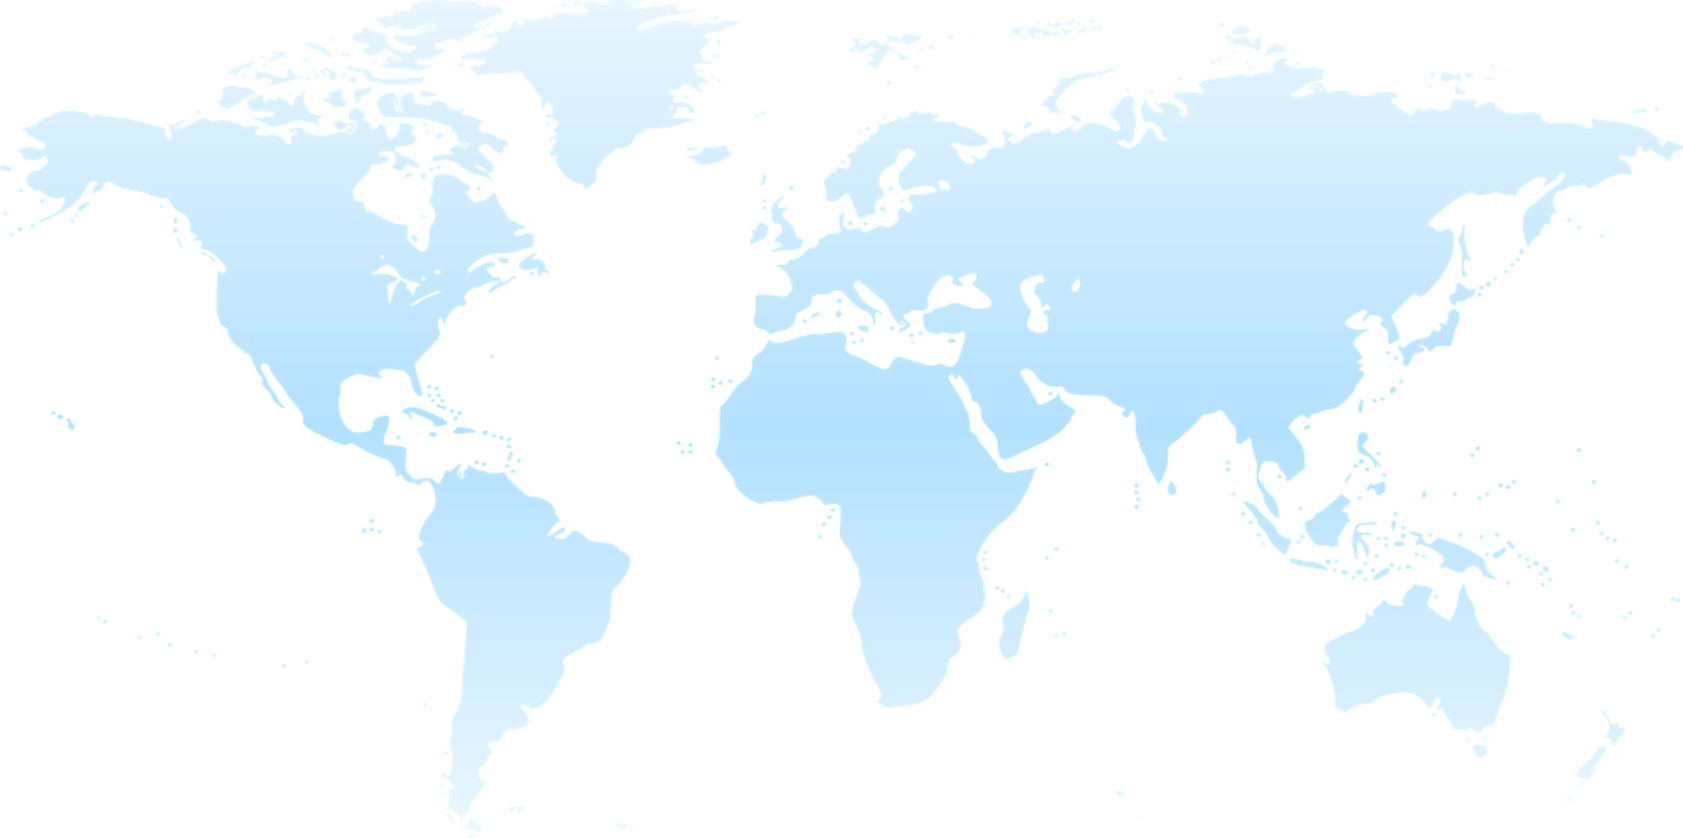
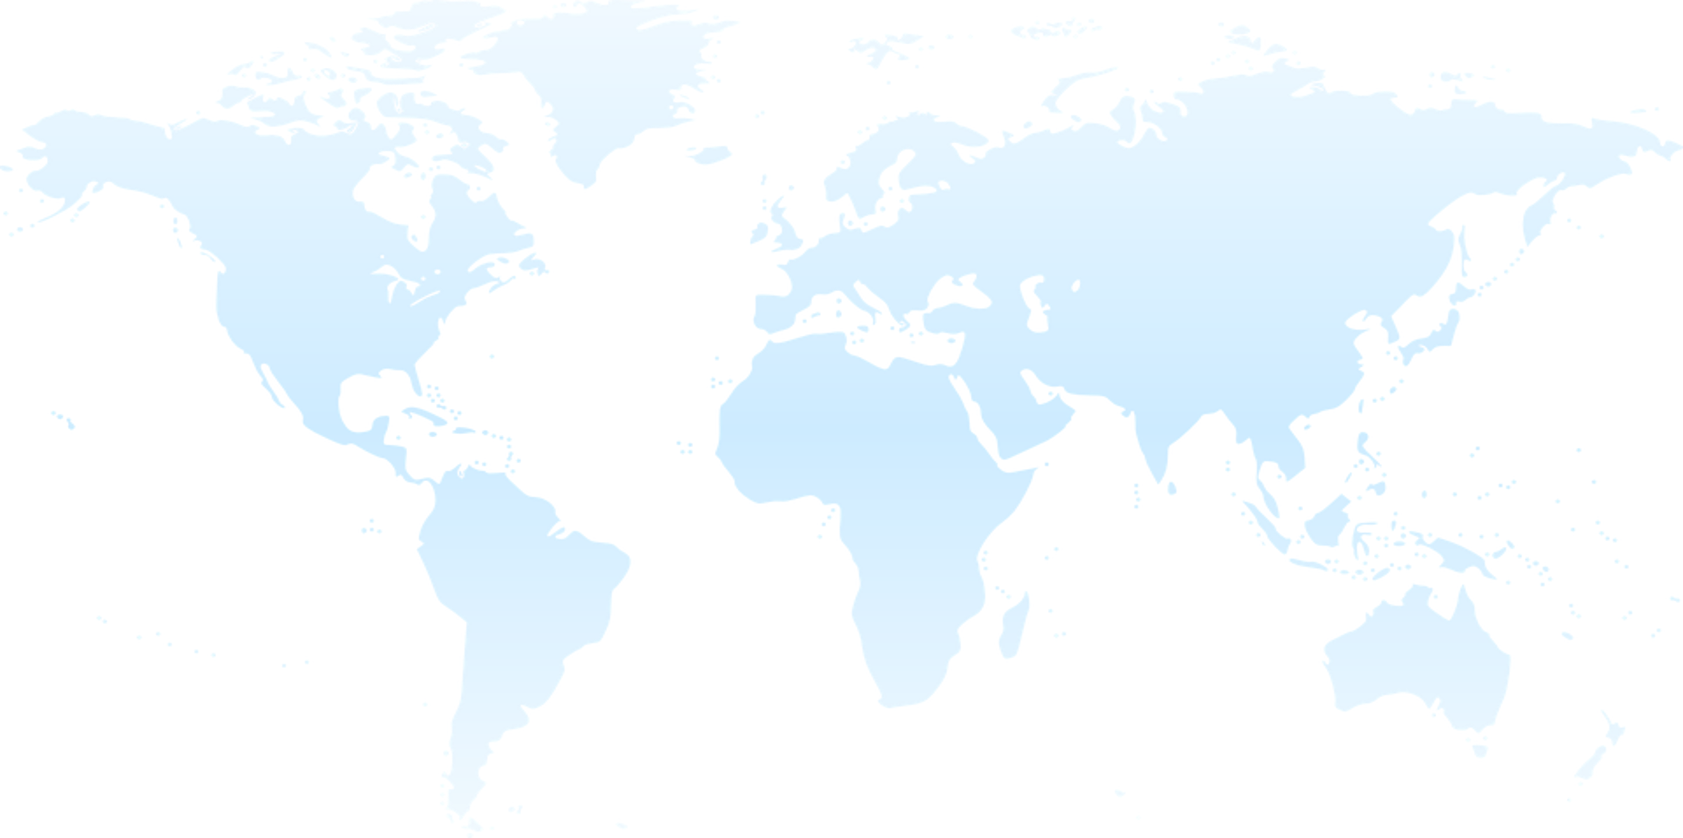
- menu page fixes - lighten the map in the background and changed everything to CSS - added new image of map

Changed region(s): [[0.4017, 0.4344, 0.8033, 0.5585], [0.1545, 0.4654, 0.2472, 0.5585]]

diff --git a/Templates/Menu/index.php b/Templates/Menu/index.php
@@ -69,8 +69,18 @@ switch($option)
 
     <!-- Our Custom CSS -->
     <link rel="stylesheet" href="../../Master/bandocat_custom_bootstrap.css">
+
+    <style>
+        .background {
+            background-image: url("../../Images/Transparent_blue_map.png");
+            background-repeat: no-repeat;
+            background-position: center;
+            background-color: #f1f1f1;
+        }
+    </style>
+
 </head>
-<body style="background-color: #f1f1f1; background-size: 80% 80%; background-repeat: no-repeat; background-position: center;" background="../../Images/Transparent_blue_map.png">
+<body class="background">
 <?php include "../../Master/bandocat_mega_menu.php"; ?>
 <div class="container">
     <div class="row" >

diff --git a/Templates/Menu/rectify.php b/Templates/Menu/rectify.php
@@ -5,7 +5,7 @@
  * Date: 1/16/2019
  * Time: 2:20 PM
  */?>
-<div class="card" style="width: 18rem;">
+<div class="card" style="width: 20rem; border-color: #0c0c0c; border-width: 3px">
     <div class="list-group list-group-flush">
         <a href="../../GeoRec/Map/index.php?col=bluchermaps" class="list-group-item list-group-item-action">Blucher</a>
         <a href="../../GeoRec/Map/index.php?col=greenmaps" class="list-group-item list-group-item-action">Green</a>

diff --git a/Templates/Menu/edit_view.php b/Templates/Menu/edit_view.php
@@ -17,7 +17,7 @@
     </ul>
 </div>-->
 
-<div class="card" style="width: 18rem;">
+<div class="card" style="width: 20rem; border-color: #0c0c0c; border-width: 3px">
     <div class="list-group list-group-flush">
         <a href="#" class="list-group-item list-group-item-action" data-toggle="modal" data-target="#blucher">Blucher</a>
         <a href="#" class="list-group-item list-group-item-action" data-toggle="modal" data-target="#green">Green</a>

diff --git a/Templates/Menu/georeference.php b/Templates/Menu/georeference.php
@@ -5,7 +5,7 @@
  * Date: 4/15/2019
  * Time: 9:30 AM
  */?>
-<div class="card" style="width: 18rem;">
+<div class="card" style="width: 20rem; border-color: #0c0c0c; border-width: 3px">
     <ul class="list-group list-group-flush">
         <li class="list-group-item"><a href="../../GeoRec/Map/index.php?col=bluchermaps">Blucher Maps</a></li>
         <li class="list-group-item"><a href="../../GeoRec/Map/index.php?col=greenmaps">Green Maps</a></li>

diff --git a/Templates/Menu/upload.php b/Templates/Menu/upload.php
@@ -13,7 +13,7 @@
 </div>-->
 
 
-<div class="card" style="width: 18rem;">
+<div class="card" style="width: 20rem; border-color: #0c0c0c; border-width: 3px">
     <div class="list-group list-group-flush">
         <a href="#" class="list-group-item list-group-item-action" data-toggle="modal" data-target="#blucher">Blucher</a>
         <a href="#" class="list-group-item list-group-item-action" data-toggle="modal" data-target="#green">Green</a>

diff --git a/Templates/Menu/transcribe.php b/Templates/Menu/transcribe.php
@@ -12,7 +12,7 @@
     </ul>
 </div>-->
 
-<div class="card" style="width: 18rem;">
+<div class="card" style="width: 20rem; border-color: #0c0c0c; border-width: 3px">
     <div class="list-group list-group-flush">
         <a href="#" class="list-group-item list-group-item-action" data-toggle="modal" data-target="#blucher">Blucher</a>
     </div>
